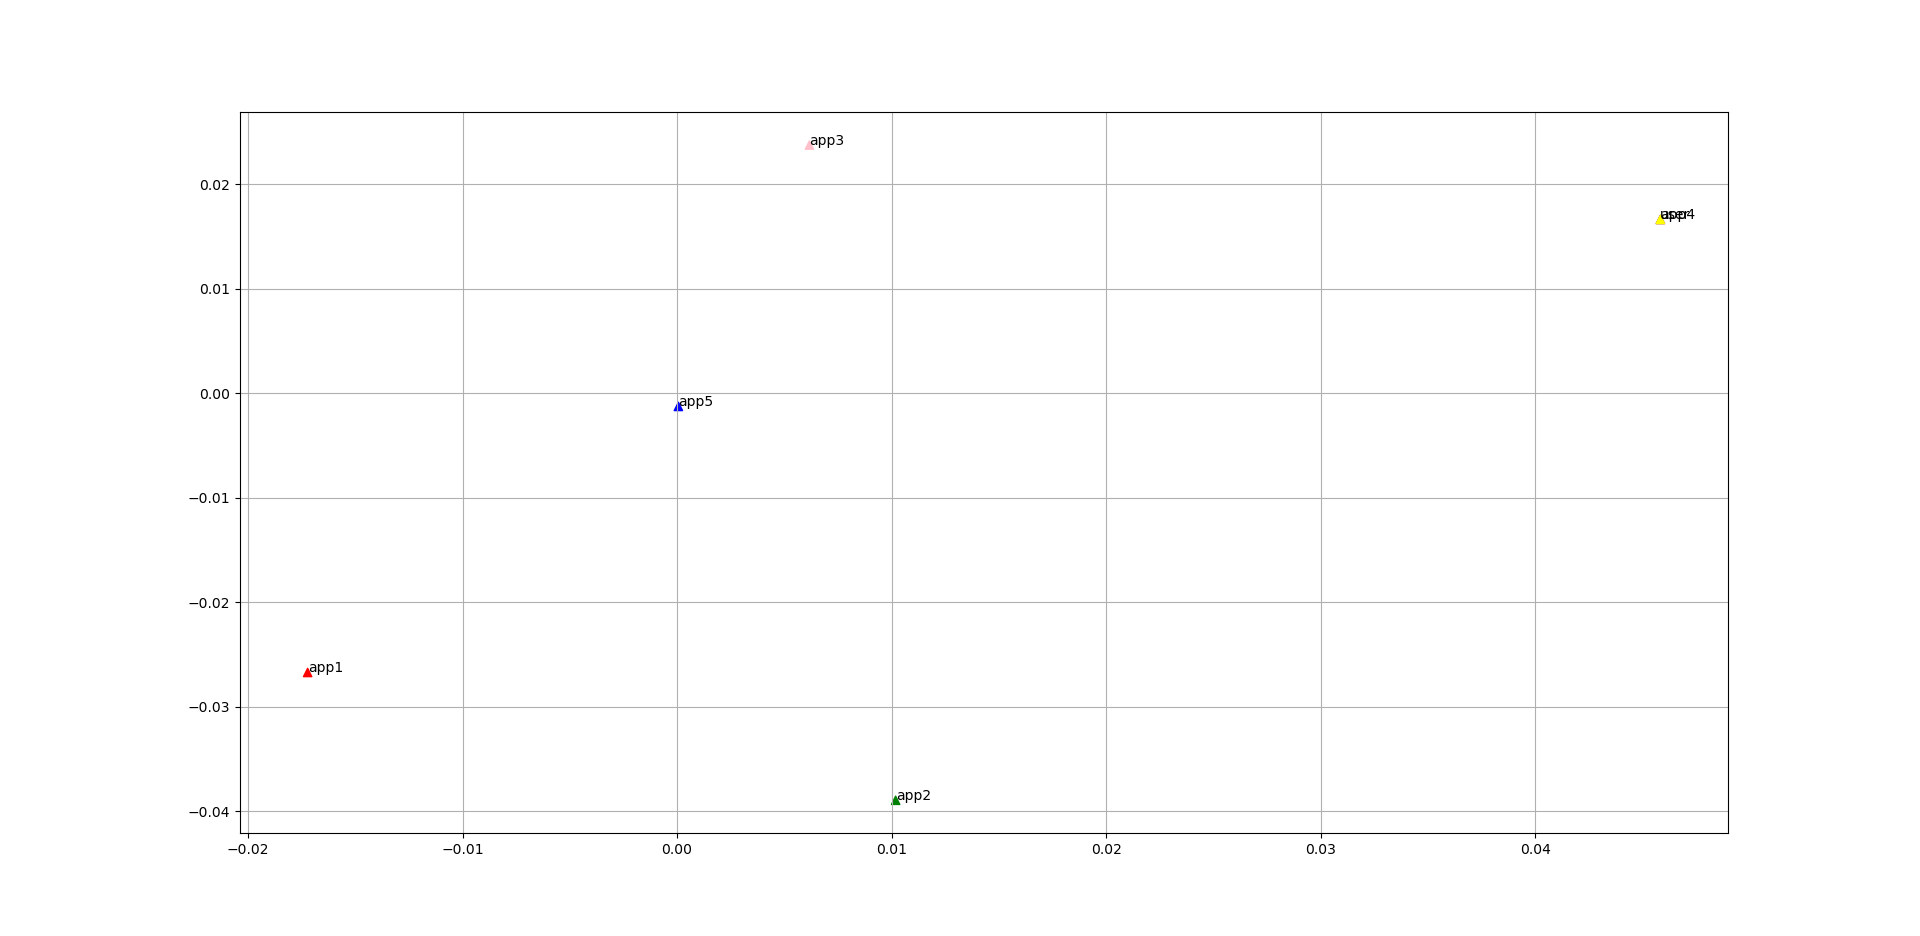
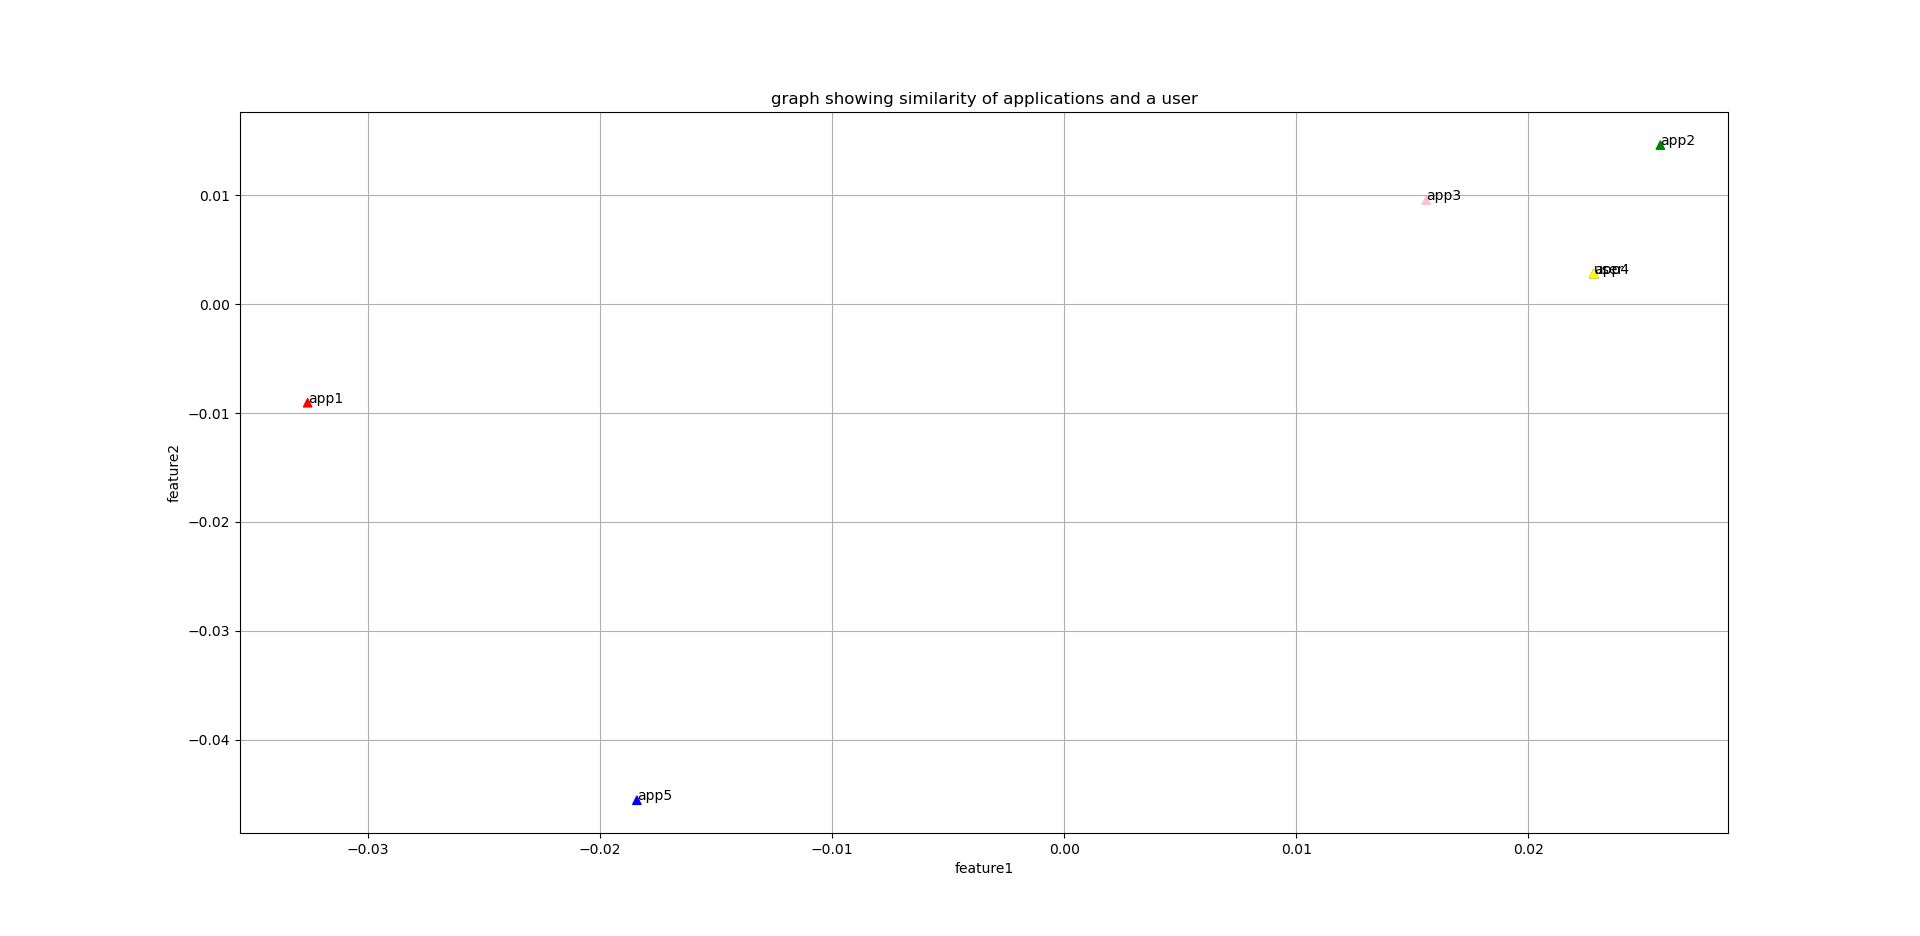
Done!!!

diff --git a/embedded_rs.py b/embedded_rs.py
@@ -55,6 +55,15 @@ def plot_graph(output_array):
         plt.annotate(txt, (x[i], y[i]))
     #for displaying the string along with the points in the graph
 
+    plt.xlabel('feature1')
+    #for the label along the x axis
+
+    plt.ylabel('feature2')
+    #for the label along the y axis
+
+    plt.title('graph showing similarity of applications and a user')
+    #for the title of the graph
+
     plt.show()
     #to display the graph
 
